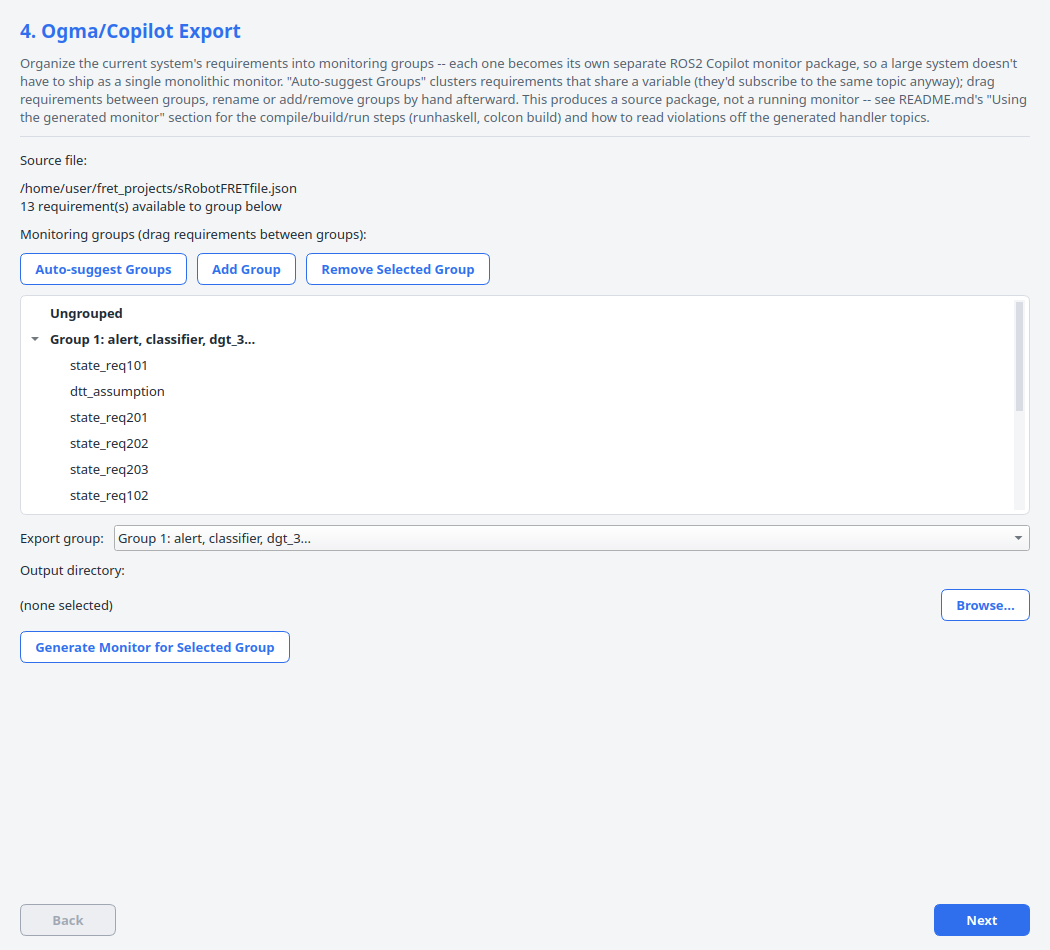
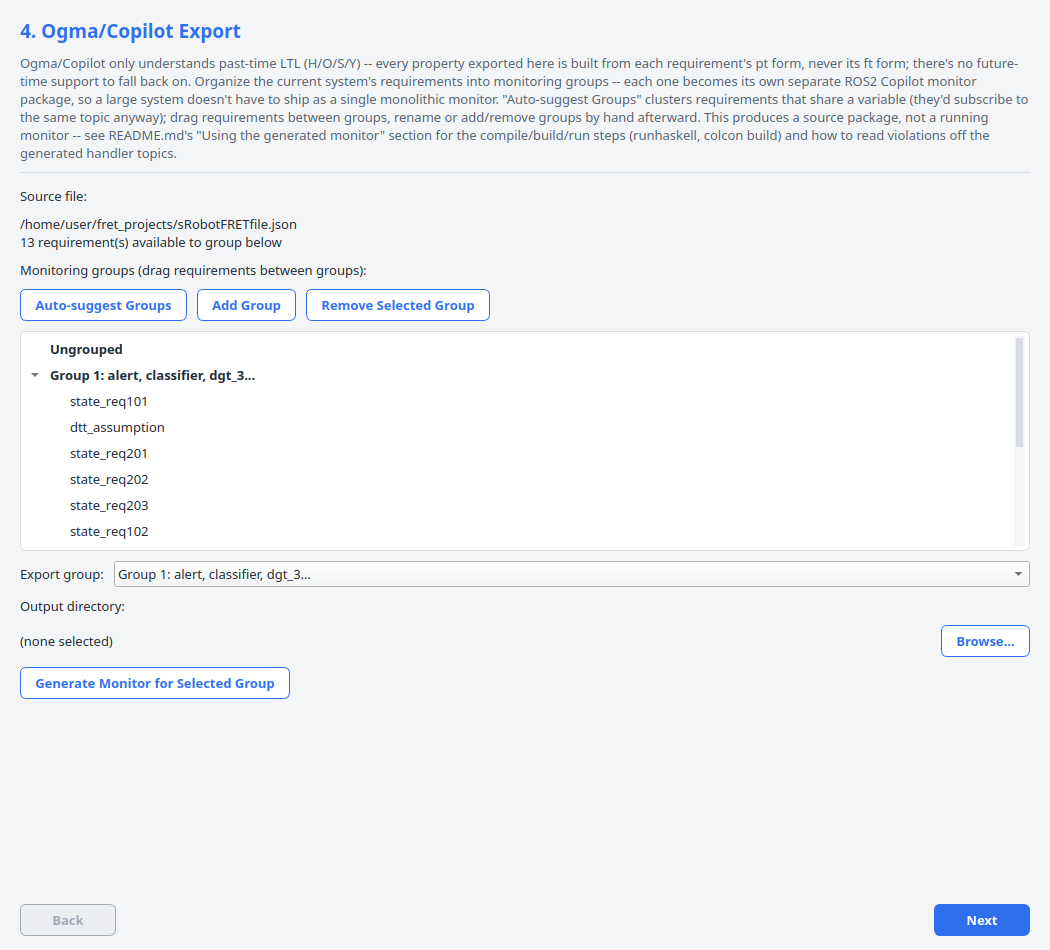
Lead with "Ogma/Copilot only understands past-time LTL" up front
The fact that Ogma/Copilot has no future-time support at all (not just a
preference for pt) was documented, but buried: a sentence mid-paragraph
in "Which LTL form each stage uses", and only surfaced properly once you
reached "Ogma's known limitation" further down. Given this is a hard
constraint on the whole stage, not a minor detail, surfaced it up front
in both places that actually matter:

- The GUI itself: MonitorExportPage.description now opens with it,
  instead of starting with the monitoring-groups feature description.
- README: the stage 4 bullet in "Pipeline stages" (the very first
  description a reader sees) now leads with it too, and "Ogma's known
  limitation" now opens with the past-time-only fact before getting into
  the future-time nested-operator bug, which is now framed as "here's
  what happens if a future-time formula reaches Ogma anyway" rather than
  the headline.

Regenerated the two walkthrough screenshots showing page 4 (07, 08) so
the published images match the new description text; 05/06 unaffected,
confirmed byte-identical to before.

diff --git a/src/ltlsplitter/gui/pages/monitor_export.py b/src/ltlsplitter/gui/pages/monitor_export.py
@@ -38,14 +38,16 @@ def _sanitize_dirname(name: str) -> str:
 class MonitorExportPage(WizardPage):
     title = "4. Ogma/Copilot Export"
     description = (
-        "Organize the current system's requirements into monitoring groups -- each one becomes "
-        "its own separate ROS2 Copilot monitor package, so a large system doesn't have to ship "
-        "as a single monolithic monitor. \"Auto-suggest Groups\" clusters requirements that "
-        "share a variable (they'd subscribe to the same topic anyway); drag requirements between "
-        "groups, rename or add/remove groups by hand afterward. This produces a source package, "
-        "not a running monitor -- see README.md's \"Using the generated monitor\" section for "
-        "the compile/build/run steps (runhaskell, colcon build) and how to read violations off "
-        "the generated handler topics."
+        "Ogma/Copilot only understands past-time LTL (H/O/S/Y) -- every property exported here "
+        "is built from each requirement's pt form, never its ft form; there's no future-time "
+        "support to fall back on. Organize the current system's requirements into monitoring "
+        "groups -- each one becomes its own separate ROS2 Copilot monitor package, so a large "
+        "system doesn't have to ship as a single monolithic monitor. \"Auto-suggest Groups\" "
+        "clusters requirements that share a variable (they'd subscribe to the same topic "
+        "anyway); drag requirements between groups, rename or add/remove groups by hand "
+        "afterward. This produces a source package, not a running monitor -- see README.md's "
+        "\"Using the generated monitor\" section for the compile/build/run steps (runhaskell, "
+        "colcon build) and how to read violations off the generated handler topics."
     )
 
     def __init__(self, state: ProjectState, parent=None):

diff --git a/README.md b/README.md
@@ -33,7 +33,7 @@ Screenshots of a real run against [`tests/fixtures/sRobotFRETfile.json`](tests/f
 1. **Import & Split Review** — import a FRET project export (`requirements`/`variables` JSON), pick one requirement, and let an LLM suggest whether/how many ways to split its LTL formula. Review and accept or reject the suggestion; if accepted, the LLM performs the split into editable sub-formulas. If the LLM doesn't recommend a split, a "Force split anyway" option appears to ask it for one regardless. Accepting a split prompts for a filename and saves it as a **new copy** of the FRET file, with the sub-formulas appended as requirements nested under the original (shown as a dropdown in the requirement tree) — the original file is never modified, and the new copy becomes the active file for the rest of the session. Each requirement also has an **Assumption** checkbox (seeded from FRET's `*_assumption` naming convention, correctable by hand) marking it as an environment constraint rather than a system guarantee -- used by stage 3.
 2. **Decomposition Validation** — nuXmv, Spot, and SPIN each independently check that the sub-formulas' conjunction is logically equivalent to the original formula, and that no single sub-formula is -- by itself -- already equivalent to the whole original (i.e. it's a genuine split, not a degenerate one). A failure can be sent back to the LLM as feedback for another attempt.
 3. **Realizability Check** — checks whether a system strategy exists that satisfies the *entire current system*: every requirement in the imported FRET file, counted exactly once -- a split's sub-formulas, once saved (stage 1), stand in for the original requirement they came from rather than being added alongside it (`FretImport.leaf_requirements()` -- a requirement with children, via `parent_reqid`, is excluded in favor of them). No requirement needs to be selected; this reads directly off the current state of the imported file. Requirements marked as assumptions (stage 1's checkbox) are treated as environment constraints rather than system guarantees -- Strix checks `assumptions -> guarantees` instead of a flat conjunction, and Kind2 gets an `assume` contract item instead of `guarantee` (see "Assumptions vs. guarantees" below for why this matters). Strix (game synthesis) and Kind2 (SMT/k-induction contract analysis) run side by side as a cross-check, not one replacing the other -- they can and sometimes do disagree (see below), which is itself useful information, not a bug to silently resolve.
-4. **Ogma/Copilot Export** — organizes the *entire current system* (same "every leaf requirement, counted exactly once" rule as stage 3) into **monitoring groups**, each exported as its own separate ROS2 Copilot monitor package rather than one monolithic package for everything. "Auto-suggest Groups" clusters requirements that share a variable (connected-components over shared variable references, `core/monitor_grouping.py` -- deterministic, no LLM call) into a starting grouping; drag requirements between groups, rename, or add/remove groups by hand afterward (a `QTreeWidget` with internal drag-and-drop -- "Ungrouped" is a fixed holding pen, not a deployable group, so nothing is silently exported or dropped). "Generate Monitor" exports whichever group is selected in the dropdown into its own subdirectory under the chosen output directory, so exporting a second group doesn't overwrite the first.
+4. **Ogma/Copilot Export** — **Ogma/Copilot only understands past-time LTL (`H`/`O`/`S`/`Y`); it has no future-time support at all, not just a preference** — every property this stage exports is built from each requirement's **pt** form, never **ft** (see "Which LTL form each stage uses" below, and "Ogma's known limitation" for what breaks if a future-time formula ever reaches it anyway). Organizes the *entire current system* (same "every leaf requirement, counted exactly once" rule as stage 3) into **monitoring groups**, each exported as its own separate ROS2 Copilot monitor package rather than one monolithic package for everything. "Auto-suggest Groups" clusters requirements that share a variable (connected-components over shared variable references, `core/monitor_grouping.py` -- deterministic, no LLM call) into a starting grouping; drag requirements between groups, rename, or add/remove groups by hand afterward (a `QTreeWidget` with internal drag-and-drop -- "Ungrouped" is a fixed holding pen, not a deployable group, so nothing is silently exported or dropped). "Generate Monitor" exports whichever group is selected in the dropdown into its own subdirectory under the chosen output directory, so exporting a second group doesn't overwrite the first.
 
 ### Which LTL form each stage uses
 
@@ -43,7 +43,7 @@ FRET exports every requirement in both a **past-time** form (`H`/`O`/`S`/`Y`, wh
 - **Spot** and **SPIN** both validate the **ft** form instead. Rather than implementing general past→future LTL translation (an open research problem -- see `docs/pipeline-design-research.md`), the LLM decomposition step is asked to produce both forms for each sub-formula directly, the same way FRET itself carries both forms per requirement.
 - **Strix** (stage 3, realizability) also only parses future-time LTL -- `strix -f "H (x -> y)"` fails with a parser error (`no viable alternative at input 'H'`). So Strix's half of stage 3 is built from the **ft** forms, not pt.
 - **Kind2** (stage 3, realizability) is the other way round: it has no built-in past-time operator at all (`H` is an undefined identifier to it, confirmed against the real binary -- it's plain Lustre, not FRET's older CoCoSpec dialect, despite FRET's own `CoCoSpecCode` export field suggesting otherwise). Rather than a general LTL-to-Lustre compiler, `kind2_check.py` hand-compiles the specific `H (...)` shape FRET always produces into a Lustre ghost variable recurring on `pre` (`h = BODY and (true -> pre h)`), so Kind2's half of stage 3 is built from the **pt** forms.
-- **Ogma** (stage 4) is given the **pt** forms, per Ogma/Copilot's own expectations (see the nested-operator note below).
+- **Ogma** (stage 4) is given **only** the **pt** forms -- Copilot has no future-time support at all, not just a preference for past-time; see the nested-operator note below for what happens if a future-time formula ever reaches it anyway (nothing in this pipeline's own flow sends one, but it's not enforced at the API boundary either).
 
 SPIN also needs its own operator spelling translated: `spin -f` uses symbolic `[]`/`<>` for always/eventually rather than the keywords `G`/`F` that every other tool here and FRET's export both use (`X`/`U`/`R`/`V`/`!`/`&`/`|`/`->`/`<->` all already match). `equivalence_check.py`'s `_to_spin_syntax()` does this translation before every `spin -f` call -- confirmed against the real binary.
 
@@ -90,12 +90,12 @@ Two smaller SPIN syntax issues were found and fixed alongside this: `spin -f` ne
 
 ## Ogma's known limitation (stage 4)
 
-Ogma (as installed, `ogma-cli` 1.16.0) still can't actually turn a **future-time** formula with a *nested* temporal operator — `G (x -> F y)`, one of the most common LTL patterns — into a working monitor, but the failure mode changed with the 1.15.0 → 1.16.0 upgrade, and is worse, not better:
+**Ogma/Copilot only understands past-time LTL.** This pipeline only ever feeds it the **pt** form (`monitor_export.py` builds every `Specification` from `req.pt_formula`, never `ft_formula`) -- not a style choice, but the only form Copilot's generated code can actually express a property in. Everything below is about what happens if a *future-time* formula reaches Ogma anyway (e.g. from code outside this pipeline's normal flow, since nothing enforces this at the API boundary): Ogma (as installed, `ogma-cli` 1.16.0) still can't actually turn a **future-time** formula with a *nested* temporal operator — `G (x -> F y)`, one of the most common LTL patterns — into a working monitor, but the failure mode changed with the 1.15.0 → 1.16.0 upgrade, and is worse, not better:
 
 - **Before (1.15.0):** `ogma ros` itself rejected the formula immediately, with a (misleadingly worded) `cannot open input specification file` error. `generate_ros2_monitor` caught that specific message and raised a clear, actionable error right there in the GUI.
 - **Now (1.16.0):** `ogma ros` accepts the formula and reports success -- `generate_ros2_monitor` returns normally, and the GUI shows "Generated monitor package" -- but the `Copilot.hs` it wrote is ill-typed Haskell (confirmed by hand: both an unbounded `G (x -> F y)` and a bounded `G (x -> F[0,5] y)` produce an `always`/`eventually` call missing required arguments) and fails at the `runhaskell Copilot.hs` compile step from "Using the generated monitor" below, with a GHC type error that gives no hint the root cause is a nested operator. The failure moved later in the workflow and got harder to diagnose, not fixed.
 
-**This turns out not to matter in practice, because stage 4 only ever sends the *past-time* (`pt`) form to Ogma** (`monitor_export.py` builds every `Specification` from `req.pt_formula`, never `ft_formula`) -- and nested *past-time* operators genuinely work. Confirmed by hand, not assumed: `(H (x -> (O y)))`, `(H (y S x))`, `(H (x -> (Y y)))`, a doubly-nested `(H ((O x) -> (O y)))`, and the real nested pattern from a genuine FRET export (`LPC_REACH_HOVER_13` in `LPC_full_reqts_and_vars.json`: `(H ((H (! x)) -> (O[0,12] (Z FALSE))))`) all pass through `ogma ros`, compile cleanly via `runhaskell Copilot.hs`, and build successfully with `colcon build`. Copilot's `PTLTL` library (`alwaysBeen`/`eventuallyPrev`/`since`/`previous`) handles nesting correctly where its future-time `MTL` library (`always`/`eventually`) does not.
+Since this pipeline always stays on the pt side, the question that actually matters is whether *nested past-time* operators work -- and they genuinely do. Confirmed by hand, not assumed: `(H (x -> (O y)))`, `(H (y S x))`, `(H (x -> (Y y)))`, a doubly-nested `(H ((O x) -> (O y)))`, and the real nested pattern from a genuine FRET export (`LPC_REACH_HOVER_13` in `LPC_full_reqts_and_vars.json`: `(H ((H (! x)) -> (O[0,12] (Z FALSE))))`) all pass through `ogma ros`, compile cleanly via `runhaskell Copilot.hs`, and build successfully with `colcon build`. Copilot's `PTLTL` library (`alwaysBeen`/`eventuallyPrev`/`since`/`previous`) handles nesting correctly where its future-time `MTL` library (`always`/`eventually`) does not.
 
 `ogma.py`'s `cannot open input specification file` detection is harmless but no longer fires for the future-time case under 1.16.0 -- there's currently no code-level workaround catching it earlier. This only matters if something outside this pipeline's normal flow feeds Ogma a future-time formula directly; the GUI itself never does.
 
